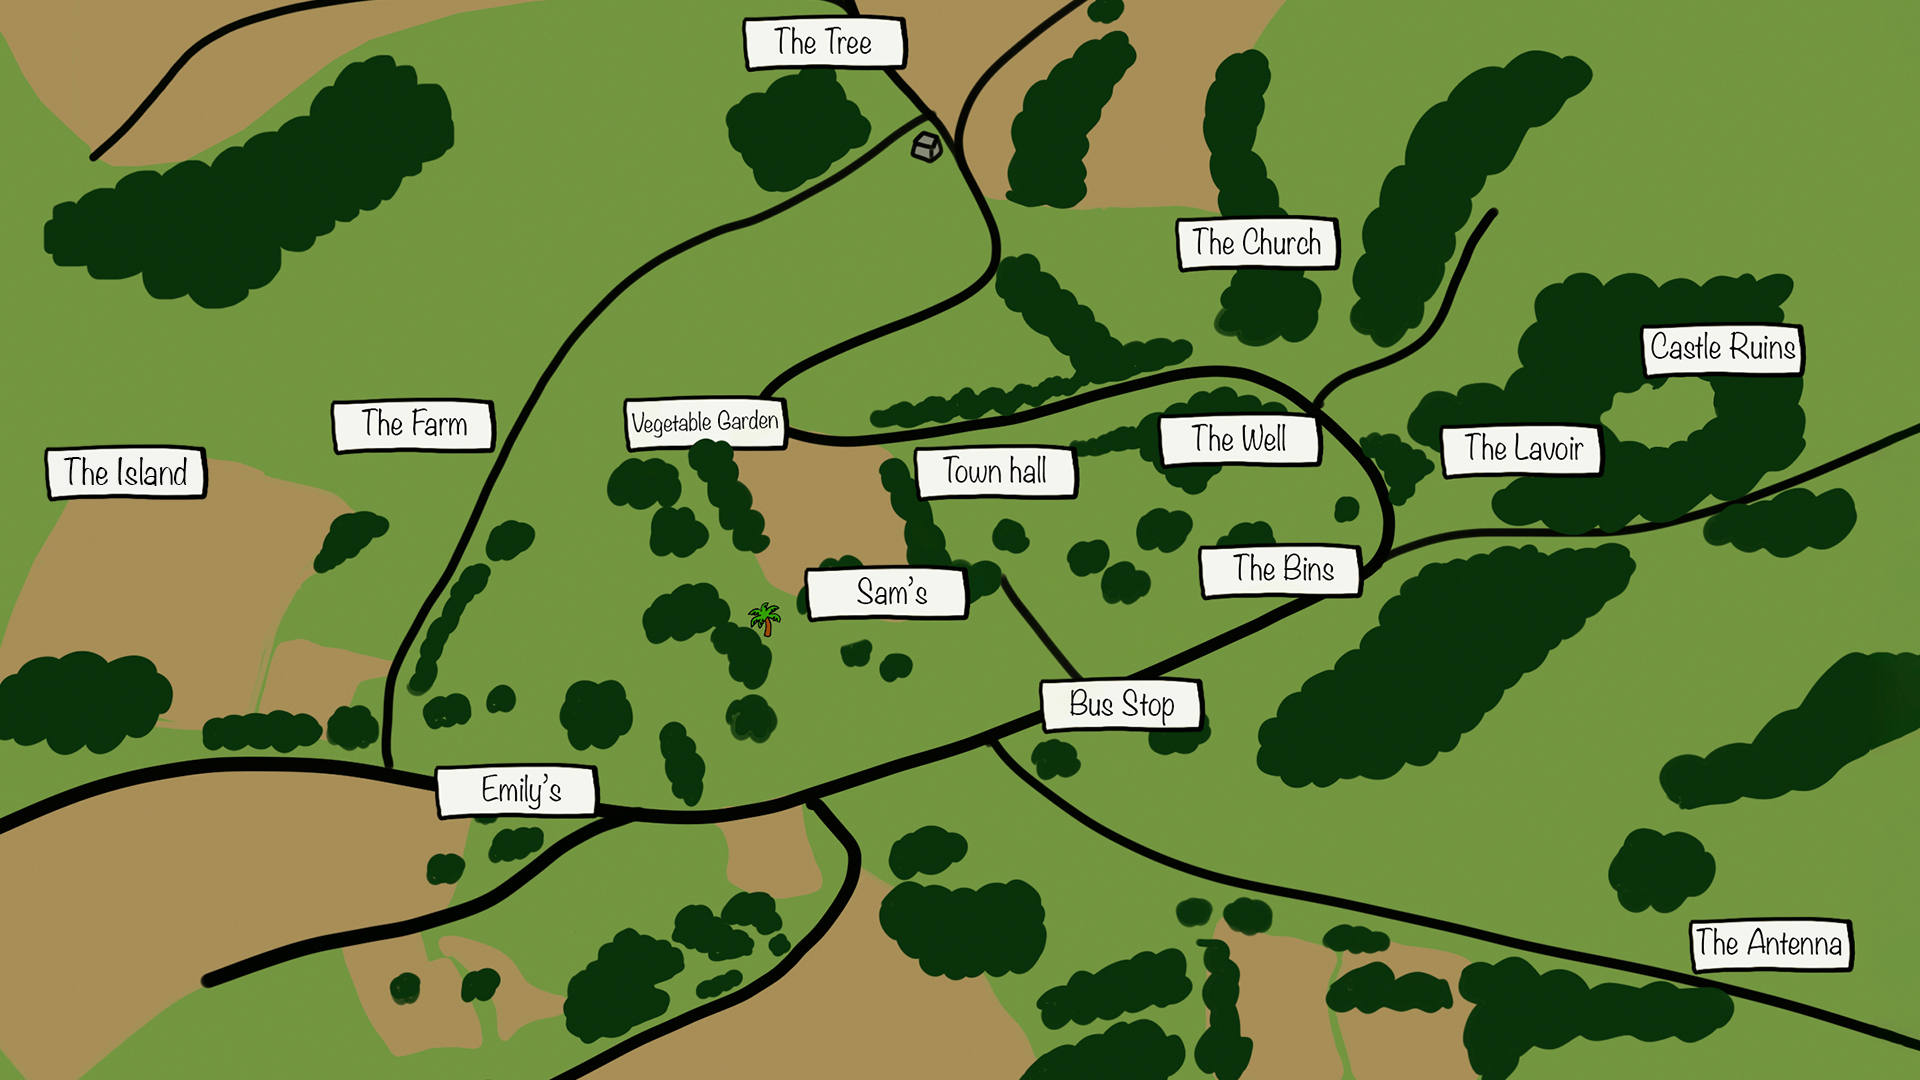
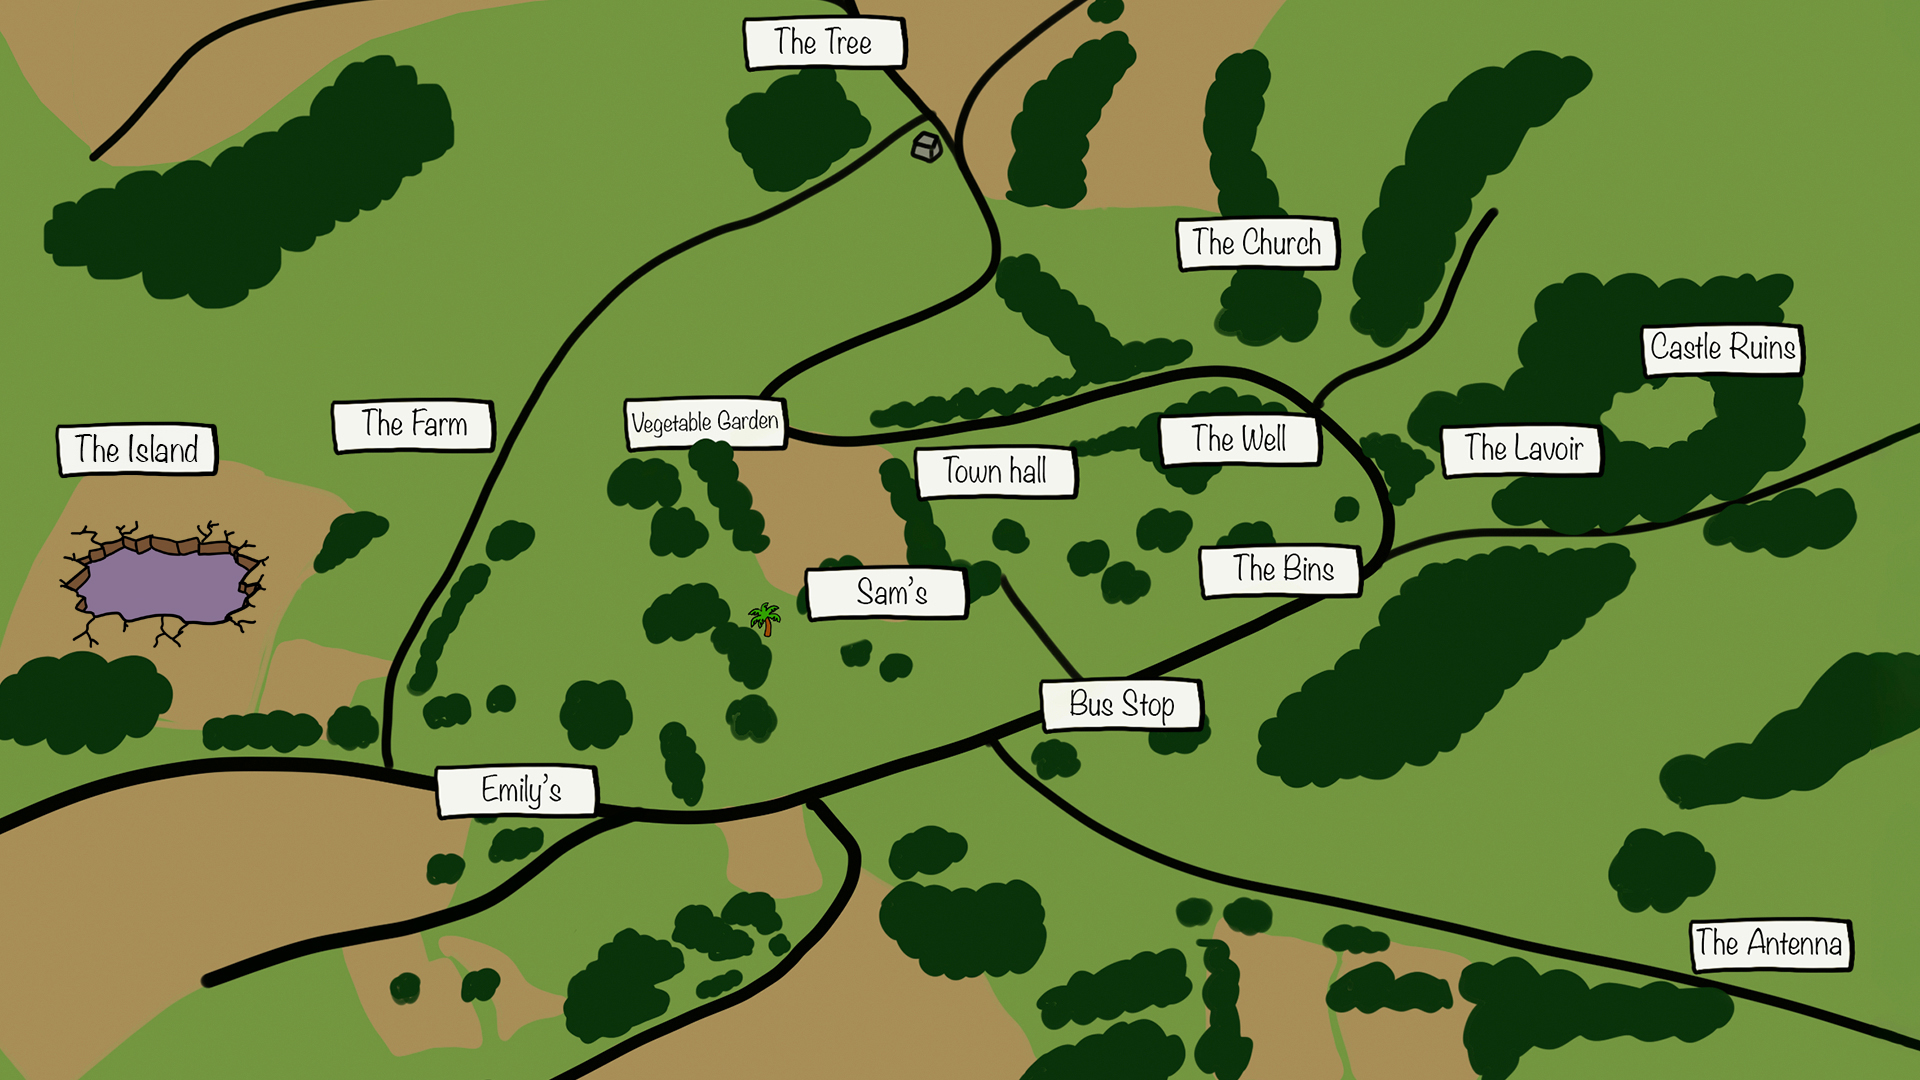
fixed conversation output and image paths, added some animation

Changed region(s): [[0.0, 0.3667, 0.1562, 0.5806]]

diff --git a/scripts/location.js b/scripts/location.js
@@ -11,6 +11,9 @@ export default class Location {
     this.outputContent = outputContent;
     this.itemName = itemName;
     this.outputTitle = outputTitle;
+    this.answerBtn = document.querySelector("#answer");
+    this.answerText = document.querySelector("#answer span");
+
     if (arguments.length >= 5) {
       this.characterName = characterName;
       this.locationCharacterUrl = `./assets/images/${this.characterName}.png`;
@@ -22,6 +25,13 @@ export default class Location {
   }
 
   goToLocation(currentInventory) {
+    this.answerBtn = document.querySelector("#answer");
+    this.answerText = document.querySelector("#answer span");
+
+    const status = document.querySelector("#status");
+    status.classList.remove("add-alert");
+    status.offsetWidth;
+    status.classList.add("add-alert");
     document.querySelector("#back-to-map").style.display = "block";
     if (this.itemName && !currentInventory.inventory[this.itemName]) {
       document.querySelector(`#${this.itemName}`).style.display = "block";
@@ -54,23 +64,22 @@ export default class Location {
       this.conversation == true &&
       this.speechIndex !== this.outputContent.length - 1
     ) {
-      const answerBtn = document.querySelector("#answer");
-      const answerText = document.querySelector("#answer span");
-      answerText.innerHTML = "Of course";
-      answerBtn.style.display = "flex";
+      this.answerText.innerHTML = "Of course";
+      this.answerBtn.style.display = "flex";
+    }
+    this.answerBtn.addEventListener("click", () => {
+      this.talk();
+    });
+  }
 
-      answerBtn.addEventListener("click", () => {
-        console.log(this.speechIndex);
-        answerText.innerHTML = "Got it";
-        this.speechIndex++;
-        console.log(this.speechIndex);
-        console.log(this.outputContent[this.speechIndex]);
-        document.querySelector("#output p:last-child").innerHTML =
-          this.outputContent[this.speechIndex];
-        if (this.speechIndex == this.outputContent.length - 1) {
-          answerBtn.style.display = "none";
-        }
-      });
+  talk() {
+    this.answerText.innerHTML = "Got it";
+    this.speechIndex++;
+
+    document.querySelector("#output p:last-child").innerHTML =
+      this.outputContent[this.speechIndex];
+    if (this.speechIndex == this.outputContent.length - 1) {
+      this.answerBtn.style.display = "none";
     }
   }
 

diff --git a/scripts/index.js b/scripts/index.js
@@ -18,7 +18,7 @@ const rightPanel = document.querySelector("#right-panel");
 
 const outputTitle = document.querySelector("#output p:first-child");
 const outputContent = document.querySelector("#output p:last-child");
-const answerBtn = document.querySelector("#answer");
+let answerBtn = document.querySelector("#answer");
 const answerText = document.querySelector("#answer span");
 const backToMap = document.querySelector("#back-to-map");
 const character = document.querySelector("#character");
@@ -58,11 +58,12 @@ function launchGame() {
   rightPanel.style.visibility = "visible";
   character.style.display = "block";
   outputTitle.innerHTML = "SAM:";
+  document.querySelector("#status").classList.add("add-alert");
   const samSpeech = [
     "Hi! Welcome to my house. I need your help. My friend Nima has gone missing. Can you help me?",
     "I last saw him at Emily’s party. Apparently he went looking for berries.",
     "Go look for him in the village. You will surely find people willing to help you.",
-    "Beware, the sun sets in 5 minutes and wild boars roam the area.",
+    "Beware, the sun sets in 10 minutes and wild boars roam the area.",
     "Click on items to add them to your inventory. You can use them later when needed by clicking on them again.",
     "Good luck on your quest. If you need help, click on the information button above.",
     "Click on the map on the bottom right corner to visit the village. The timer will start then.",
@@ -74,7 +75,7 @@ function launchGame() {
     samSpeechIndex++;
     outputContent.innerHTML = samSpeech[samSpeechIndex];
     if (samSpeechIndex == samSpeech.length - 1) {
-      this.removeEventListener("click", handler);
+      this.removeEventListener("click", handler); //comment out
       this.style.display = "none";
       backToMap.style.display = "block";
     }
@@ -82,6 +83,9 @@ function launchGame() {
 }
 
 function goToMap() {
+  answerBtn.replaceWith(answerBtn.cloneNode(true));
+  answerBtn = document.querySelector("#answer");
+  answerBtn.style.display = "none";
   document.getElementById("back-to-map").style.display = "none";
   document
     .querySelectorAll(".item")

diff --git a/scripts/game.js b/scripts/game.js
@@ -11,7 +11,7 @@ export default class Game {
       ["Have you found my friend Nima yet? I last saw him at Emily’s place."],
       "no-item",
       "Sam",
-      "Sam"
+      "sam"
     );
     this.castle = new Location(
       "castle",
@@ -29,11 +29,23 @@ export default class Game {
       ],
       "no-item",
       "Mayor",
-      "Mayor",
+      "mayor",
+      true
+    );
+    this.island = new Location(
+      "island",
+      [
+        "I am Volcano Island. I may be hidden but I am the heart of this place. The village is in danger.",
+        "My core needs to be replaced every thousand years. You need to come back here with a new core and a magical scroll.",
+        "The village will be slowly destroyed if you don’t. Help me and I’ll give you what you need to get to Nima.",
+      ],
+      "no-item",
+      "Volcano Island",
+      "volcano-island",
       true
     );
 
-    this.cat = new Location("cat", ["Purr."], "currant", "Cat");
+    this.cat = new Location("cat", ["Purr."], "redcurrants", "Cat");
 
     this.init();
   }
@@ -59,6 +71,10 @@ export default class Game {
 
     document.querySelector("#cat").addEventListener("click", () => {
       this.cat.goToLocation(this.currentInventory);
+    });
+
+    document.querySelector("#island").addEventListener("click", () => {
+      this.island.goToLocation(this.currentInventory);
     });
   }
 

diff --git a/index.html b/index.html
@@ -31,7 +31,7 @@
     <div id="game-container">
       <div id="left-panel">
         <div id="logo"></div>
-        <div id="timer"><span>5:00</span></div>
+        <div id="timer"><span>10:00</span></div>
         <div id="buttons">
           <div class="hover" id="music-btn"></div>
           <div class="hover" id="restart-btn"></div>
@@ -76,7 +76,7 @@
         </div>
         <div class="item glow" id="wine"></div>
         <div class="item glow" id="no-item"></div>
-        <div class="item glow" id="currant"></div>
+        <div class="item glow" id="redcurrants"></div>
         <div class="item glow" id="core"></div>
       </div>
       <div id="right-panel">

diff --git a/scripts/timer.js b/scripts/timer.js
@@ -1,6 +1,6 @@
 export default class Timer {
   constructor() {
-    this.deadline = 5 * 60;
+    this.deadline = 10 * 60;
     this.init();
   }
 
@@ -18,6 +18,8 @@ export default class Timer {
     const timerText = document.querySelector("#timer span");
     if (this.deadline <= 60) {
       timerText.style.color = "red";
+      document.querySelector("#timer").style.animation =
+        "pulse 1s infinite ease-in-out alternate";
     }
     let minutes = Math.floor(this.deadline / 60);
     let seconds = (this.deadline % 60).toString();

diff --git a/css/style.css b/css/style.css
@@ -31,6 +31,29 @@
   }
 }
 
+@keyframes alert {
+  30% {
+    transform: scale(1.05);
+  }
+  40%,
+  60% {
+    transform: rotate(-1deg) scale(1.05);
+  }
+  50% {
+    transform: rotate(1deg) scale(1.05);
+  }
+  70% {
+    transform: rotate(0deg) scale(1.05);
+  }
+  100% {
+    transform: scale(1);
+  }
+}
+
+.add-alert {
+  animation: 2s ease 0s 1 alert;
+}
+
 .hover:hover {
   transform: scale(1.05);
   animation: 0.35s ease-out 0s 1 pop-out;

diff --git a/css/items.css b/css/items.css
@@ -26,10 +26,10 @@
   cursor: pointer;
 }
 
-#currant {
+#redcurrants {
   z-index: 1;
   display: none;
-  background: url(./../assets/images/currant.png);
+  background: url(./../assets/images/redcurrants.png);
   background-size: contain;
   background-repeat: no-repeat;
   position: absolute;

diff --git a/css/map.css b/css/map.css
@@ -148,10 +148,9 @@
   background-repeat: no-repeat;
   position: absolute;
   left: 3vw;
-  top: 17vw;
-  width: 4.5vw;
-  height: 3.5vw;
-  filter: drop-shadow(0 0 0.4rem rgb(147, 8, 140));
+  top: 15.95vw;
+  width: 5vw;
+  height: 5vw;
 }
 
 #cat {

diff --git a/css/timer.css b/css/timer.css
@@ -6,3 +6,12 @@
   height: 5%;
   width: 100%;
 }
+
+@keyframes pulse {
+  from {
+    transform: scale(0.96);
+  }
+  to {
+    transform: scale(1.04);
+  }
+}
